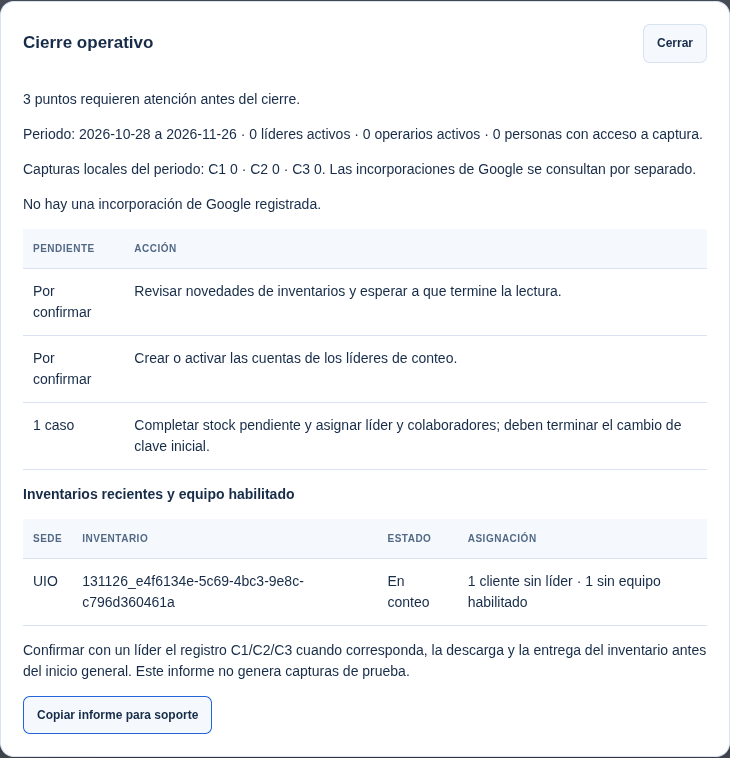
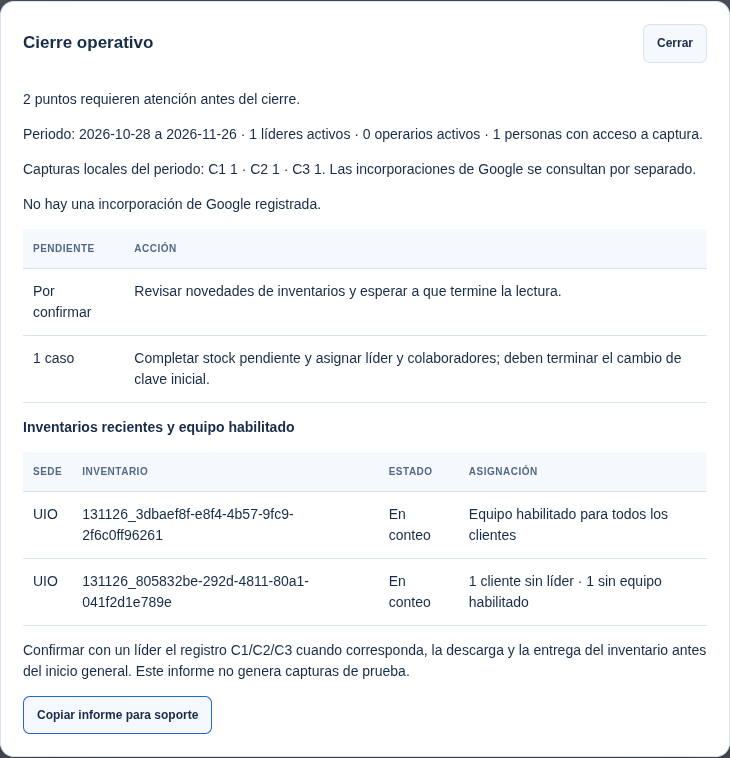
Controla cuotas de lectura Google y detalla pendientes de acceso

diff --git a/docs/CIERRE_REAL_Y_CUOTA_GOOGLE_20261126.md b/docs/CIERRE_REAL_Y_CUOTA_GOOGLE_20261126.md
@@ -1,0 +1,55 @@
+# Cierre real recibido y corrección de lectura Google
+
+26 de noviembre de 2026 · ITSANET IMS Ecuador
+
+## Lo confirmado en el servidor
+
+El informe `ims-cierre-operativo-v1` recibido, generado a las 12:19 de Ecuador, acredita la publicación de `4d5b416043d6a53c951e094f7e58fd95cb349fb4`: HTTPS, unidad del servicio y arranque automático verificados.
+
+| Medición | Resultado |
+| --- | --- |
+| Memoria actual del servicio | 50,89 MiB |
+| Pico de memoria | 82,88 MiB |
+| Límite de memoria configurado | 512 MiB |
+| CPU observada | 0,02 % de un núcleo durante una muestra de 1,021 segundos |
+| Cuota de CPU | Equivalente a 0,5 núcleo |
+| Esquema MySQL, datos e índices | 5,30 GiB; 62 tablas, incluidas las copias importadas |
+| Libre en la partición de datos | 34,07 GiB |
+| Histórico conservado | 352 inventarios; 97.822 líneas |
+| Inventarios nativos | 24; 12.337 líneas |
+
+La muestra de CPU no constituye una prueba de carga. La memoria del servicio no incluye MySQL ni Apache. El tamaño del esquema no incluye binlogs ni archivos externos.
+
+## Causa confirmada de la lectura parcial
+
+El informe registra 17 archivos intentados, seis confirmados y 11 incidencias. El detalle aportado después confirma **HTTP 429** en las fuentes afectadas: Google limitó temporalmente las solicitudes. Las filas posteriores del panel siguen recibiendo actividad; el siguiente intento debe revisar su estado actual.
+
+No hay una aplicación `GOOGLE_APLICAR` registrada. La ausencia de novedades en una lectura parcial no acredita que los datos estén actualizados.
+
+La corrección:
+
+- Espacia las solicitudes de lectura de Sheets al menos 1,1 segundos dentro del proceso IMS.
+- Reintenta únicamente respuestas temporales 429, 500, 502, 503 y 504, con un máximo de cuatro intentos por solicitud.
+- Respeta `Retry-After`. Si la espera supera el límite permitido o el presupuesto de la lectura, conserva la fuente sin confirmar; no la anuncia importada.
+- Mantiene el límite de ocho minutos de la lectura y distingue su expiración de una fuente no autorizada.
+- Conserva como fallos los rechazos de acceso y los problemas de certificado. Solo usa GET para reintentar las hojas, sin modificar fuentes.
+- Muestra fila del panel, HTTP y acción recomendada en el informe de cierre, sin incluir IDs de archivos Google ni mensajes privados del proveedor.
+
+Otras aplicaciones que usen la misma cuota de Google pueden seguir causando límites. La comprobación final es el resultado de una nueva lectura en el servidor, no las pruebas con datos simulados.
+
+## Acceso del equipo
+
+El informe confirma cuatro líderes y un operario activos, **cinco cambios de clave pendientes y cero personas con acceso de captura habilitado**. Las cuentas existen; el cambio inicial aún debe completarse.
+
+1. Cada persona inicia sesión en `/centro` con su cuenta individual y abre **Mi perfil**. Debe cambiar su contraseña inicial antes de operar.
+2. Si no conoce la contraseña temporal, administración puede restablecerla desde **Usuarios**; la persona vuelve a elegir su clave individual. No se comparten contraseñas en el diagnóstico.
+3. Administración revisa en el cronograma al responsable y colaboradores de `101126_BELIA` y `231126_DEGSO`, con permiso para todos sus clientes.
+4. `101126_BELIA` está en validación y no admite capturas en ese estado. Si requiere continuar contando, un responsable autorizado debe devolverlo a **En proceso** desde Gestionar, después de revisar su situación. No se cambia automáticamente su estado.
+
+Se comprobó en Chromium con un líder sintético: el sistema bloquea la captura antes del cambio de clave; después permite registrar C1, C2 y C3 y conserva cero como cantidad válida. Las cuentas y capturas reales no se modificaron desde estas pruebas.
+
+## Siguiente verificación en el servidor
+
+Después de actualizar, ejecutar una sola revisión de novedades y esperar a que termine. Revisar las incidencias restantes; aplicar únicamente los grupos seleccionados y confirmados. La importación no entrega ni publica automáticamente inventarios con estado de origen «Entregado».
+
+Finalmente, volver a copiar el informe de cierre para verificar incorporación, cuentas habilitadas y asignación vigente. La validación operativa con el equipo sigue siendo necesaria antes del inicio general previsto para el 30 de noviembre y de la demostración para Argentina del 4 de diciembre.

diff --git a/docs/CIERRE_OFICIAL_Y_LANZAMIENTO_20261126.md b/docs/CIERRE_OFICIAL_Y_LANZAMIENTO_20261126.md
@@ -2,6 +2,8 @@
 
 26 de noviembre de 2026 · Ecuador
 
+**Actualización:** se recibió la confirmación de instalación de `4d5b416` y la medición real del servidor. Los rechazos de Google compartidos después corresponden a HTTP 429. Véase [cierre real y corrección de cuota](CIERRE_REAL_Y_CUOTA_GOOGLE_20261126.md). La sección de evidencia pendiente de este documento describe el estado anterior a recibir ese informe.
+
 ## Resultado preparado
 
 Esta actualización reúne las correcciones de creación y conteo publicadas el 23 de noviembre y agrega una comprobación del cierre. No asigna un porcentaje de producción a partir del número de pruebas aprobadas.
